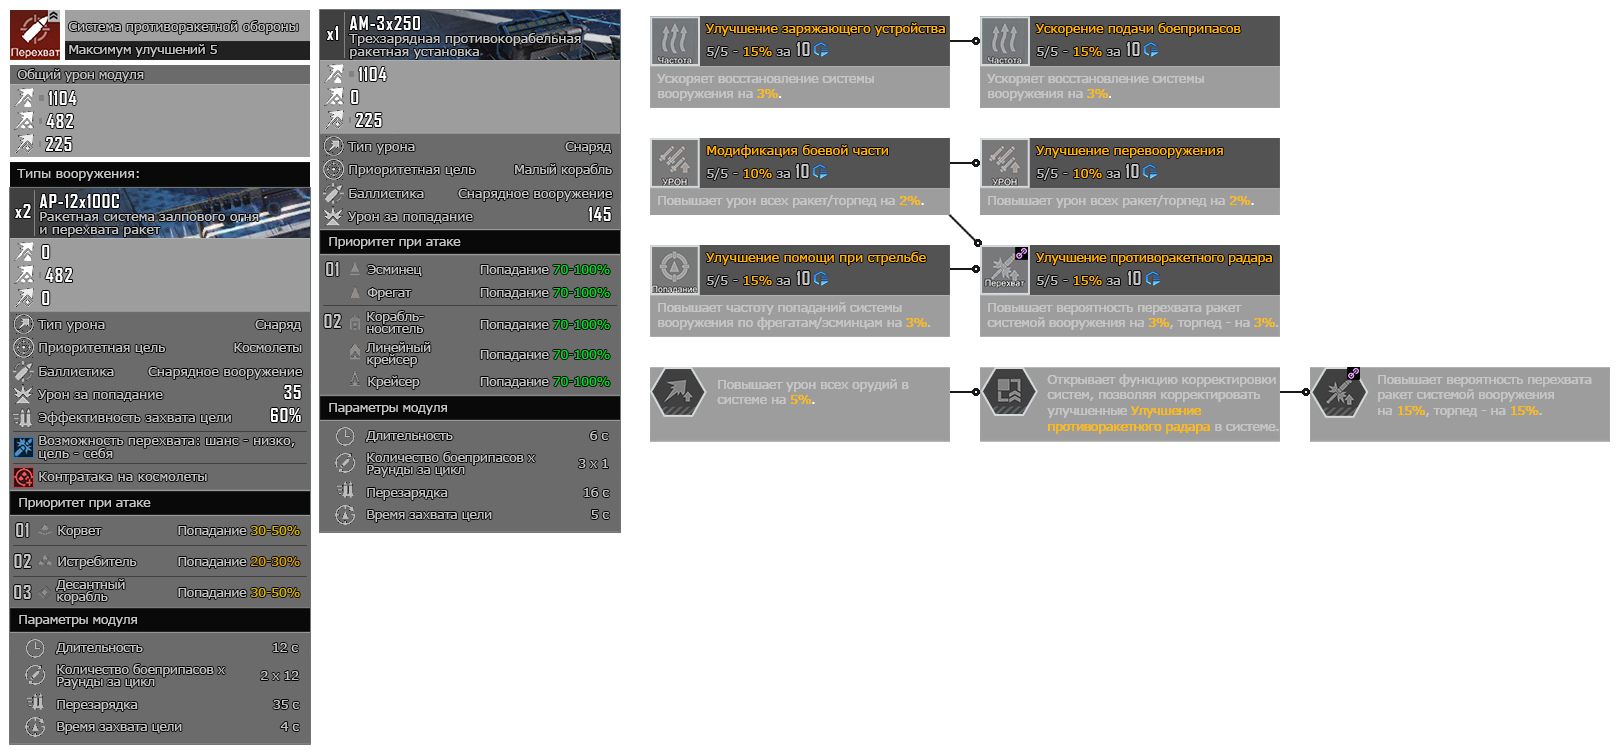
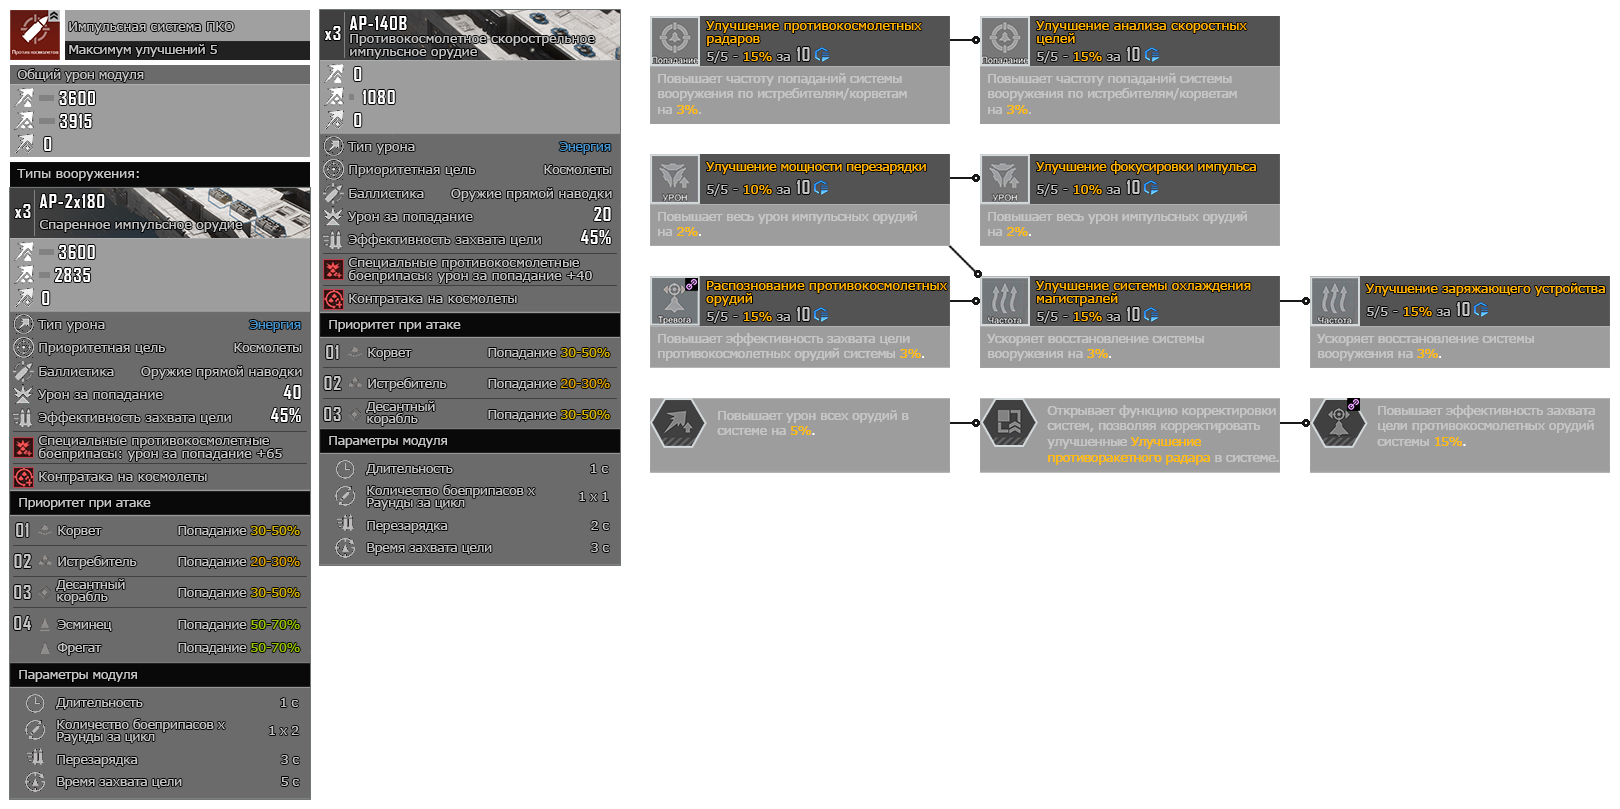
9

Changed region(s): [[0.0, 0.0, 1.0, 0.9761]]

diff --git a/index.html b/index.html
@@ -88,8 +88,8 @@
       
       <div class="sub-images-line">
         <img src="img/SmallPictures/Icon_M1.png" class="sub-toggle-img" data-subimg="img/VechnieNebesa/VechnieNebesa_M1.png" alt="М1">
-        <img src="img/SmallPictures/Icon_M2.png" class="sub-toggle-img semi-transparent" data-subimg="" alt="М2">
-        <img src="img/SmallPictures/Icon_M3.png" class="sub-toggle-img semi-transparent" data-subimg="" alt="М3">
+        <img src="img/SmallPictures/Icon_M2.png" class="sub-toggle-img" data-subimg="img/VechnieNebesa/VechnieNebesa_M2.png" alt="М2">
+        <img src="img/SmallPictures/Icon_M3.png" class="sub-toggle-img" data-subimg="img/VechnieNebesa/VechnieNebesa_M3.png" alt="М3">
         <img src="img/SmallPictures/Icon_A1.png" class="sub-toggle-img" data-subimg="img/VechnieNebesa/VechnieNebesa_A1.png" alt="A1">
         <img src="img/SmallPictures/Icon_A2.png" class="sub-toggle-img" data-subimg="img/VechnieNebesa/VechnieNebesa_A2.png" alt="A2">
         <img src="img/SmallPictures/Icon_A3.png" class="sub-toggle-img" data-subimg="img/VechnieNebesa/VechnieNebesa_A3.png" alt="A3">
@@ -98,7 +98,7 @@
         <img src="img/SmallPictures/Icon_B3.png" class="sub-toggle-img" data-subimg="img/VechnieNebesa/VechnieNebesa_B3.png" alt="B3">
         <img src="img/SmallPictures/Icon_C1.png" class="sub-toggle-img" data-subimg="img/VechnieNebesa/VechnieNebesa_C1.png" alt="C1">
         <img src="img/SmallPictures/Icon_C2.png" class="sub-toggle-img" data-subimg="img/VechnieNebesa/VechnieNebesa_C2.png" alt="C2">
-        <img src="img/SmallPictures/Icon_C3.png" class="sub-toggle-img semi-transparent" data-subimg="" alt="C3">        
+        <img src="img/SmallPictures/Icon_C3.png" class="sub-toggle-img" data-subimg="img/VechnieNebesa/VechnieNebesa_C3.png" alt="C3">        
       </div>
 
       <div class="sub-dropdown">
@@ -110,7 +110,7 @@
     </div>
   </div>
 
-  <div class="row-dropdown" data-for="btn-icon4" data-bg="img/VechnieNebesa/VechnieNebesaFon.jpg">
+  <div class="row-dropdown" data-for="btn-icon4" data-bg="img/MarshalKruks/MarshalKruksFon.jpg">
     <div class="dropdown-inner">
       
       <div class="sub-images-line">
@@ -254,7 +254,7 @@
         <img src="img/SmallPictures/Icon_B1.png" class="sub-toggle-img" data-subimg="img/GromovayaZvezda/GromovayaZvezda_B1.png" alt="B1">
         <img src="img/SmallPictures/Icon_B2.png" class="sub-toggle-img" data-subimg="img/GromovayaZvezda/GromovayaZvezda_B2.png" alt="B2">        
         <img src="img/SmallPictures/Icon_C1.png" class="sub-toggle-img" data-subimg="img/GromovayaZvezda/GromovayaZvezda_C1.png" alt="C1">
-        <img src="img/SmallPictures/Icon_C2.png" class="sub-toggle-img" data-subimg="" alt="C2">        
+        <img src="img/SmallPictures/Icon_C2.png" class="sub-toggle-img" data-subimg="img/GromovayaZvezda/GromovayaZvezda_C2.png" alt="C2">        
         <img src="img/SmallPictures/Icon_D1.png" class="sub-toggle-img" data-subimg="img/GromovayaZvezda/GromovayaZvezda_D1.png" alt="D1">
         <img src="img/SmallPictures/Icon_D2.png" class="sub-toggle-img semi-transparent" data-subimg="" alt="D2">
         <img src="img/SmallPictures/Icon_E1.png" class="sub-toggle-img" data-subimg="img/GromovayaZvezda/GromovayaZvezda_E1.png" alt="E1">
